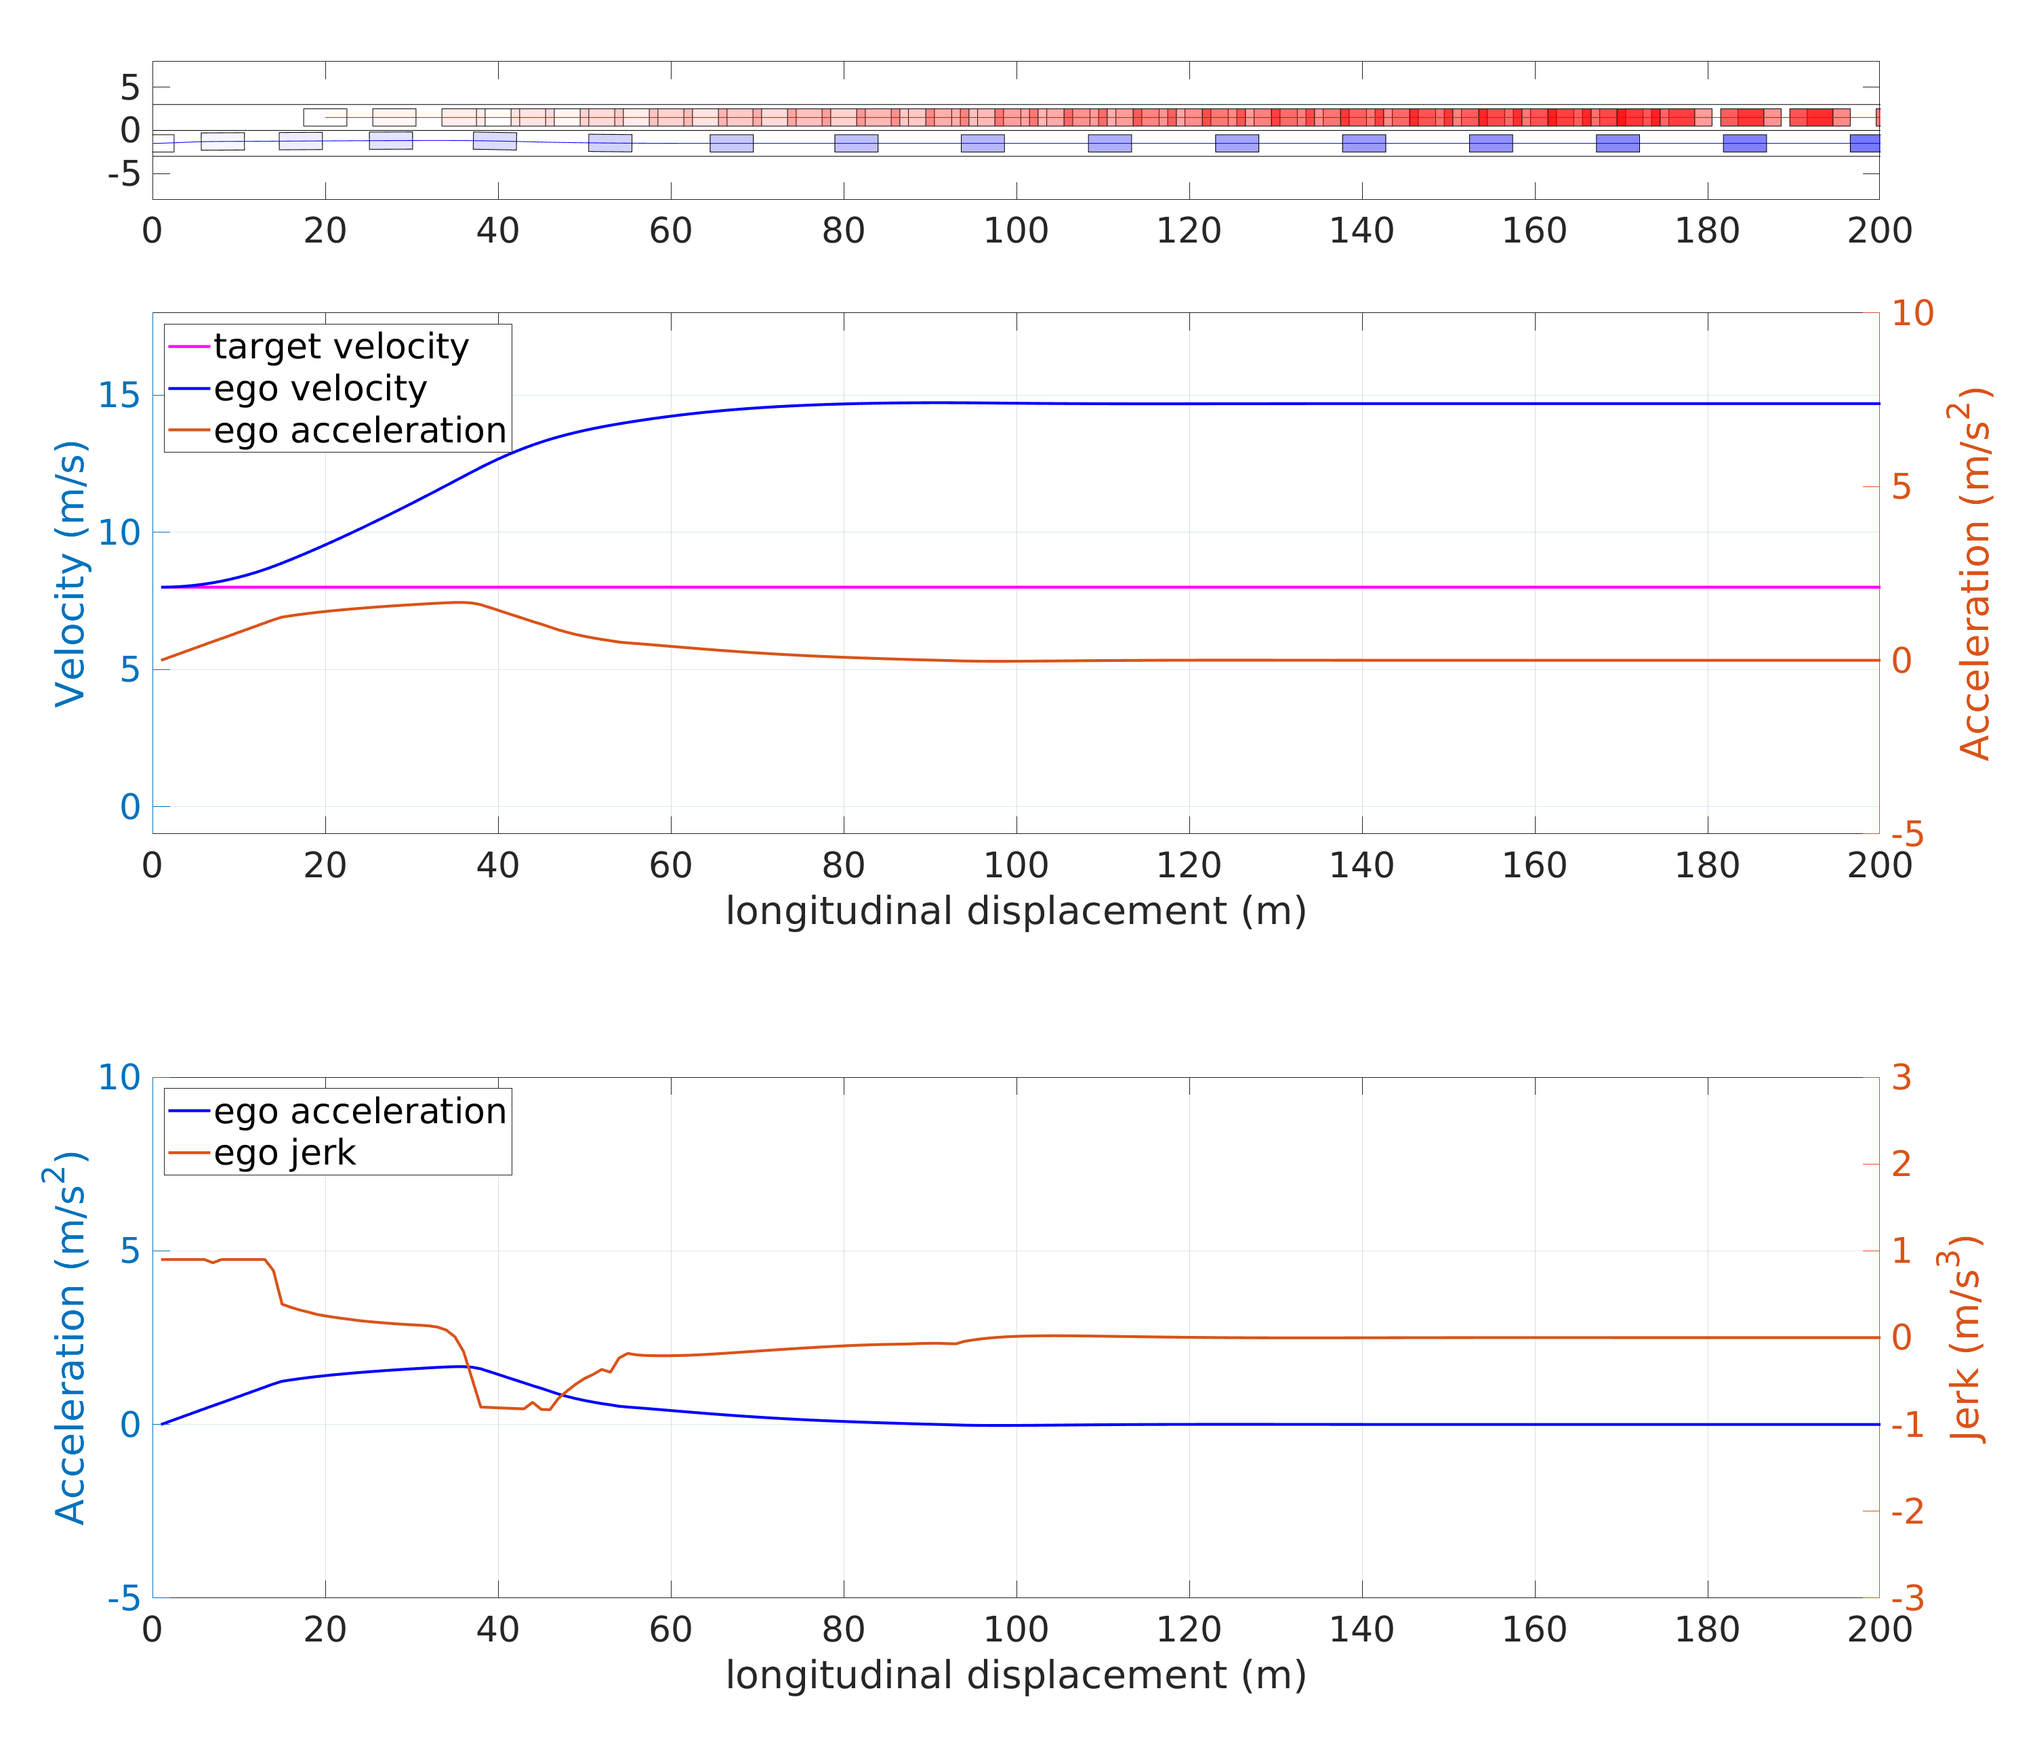
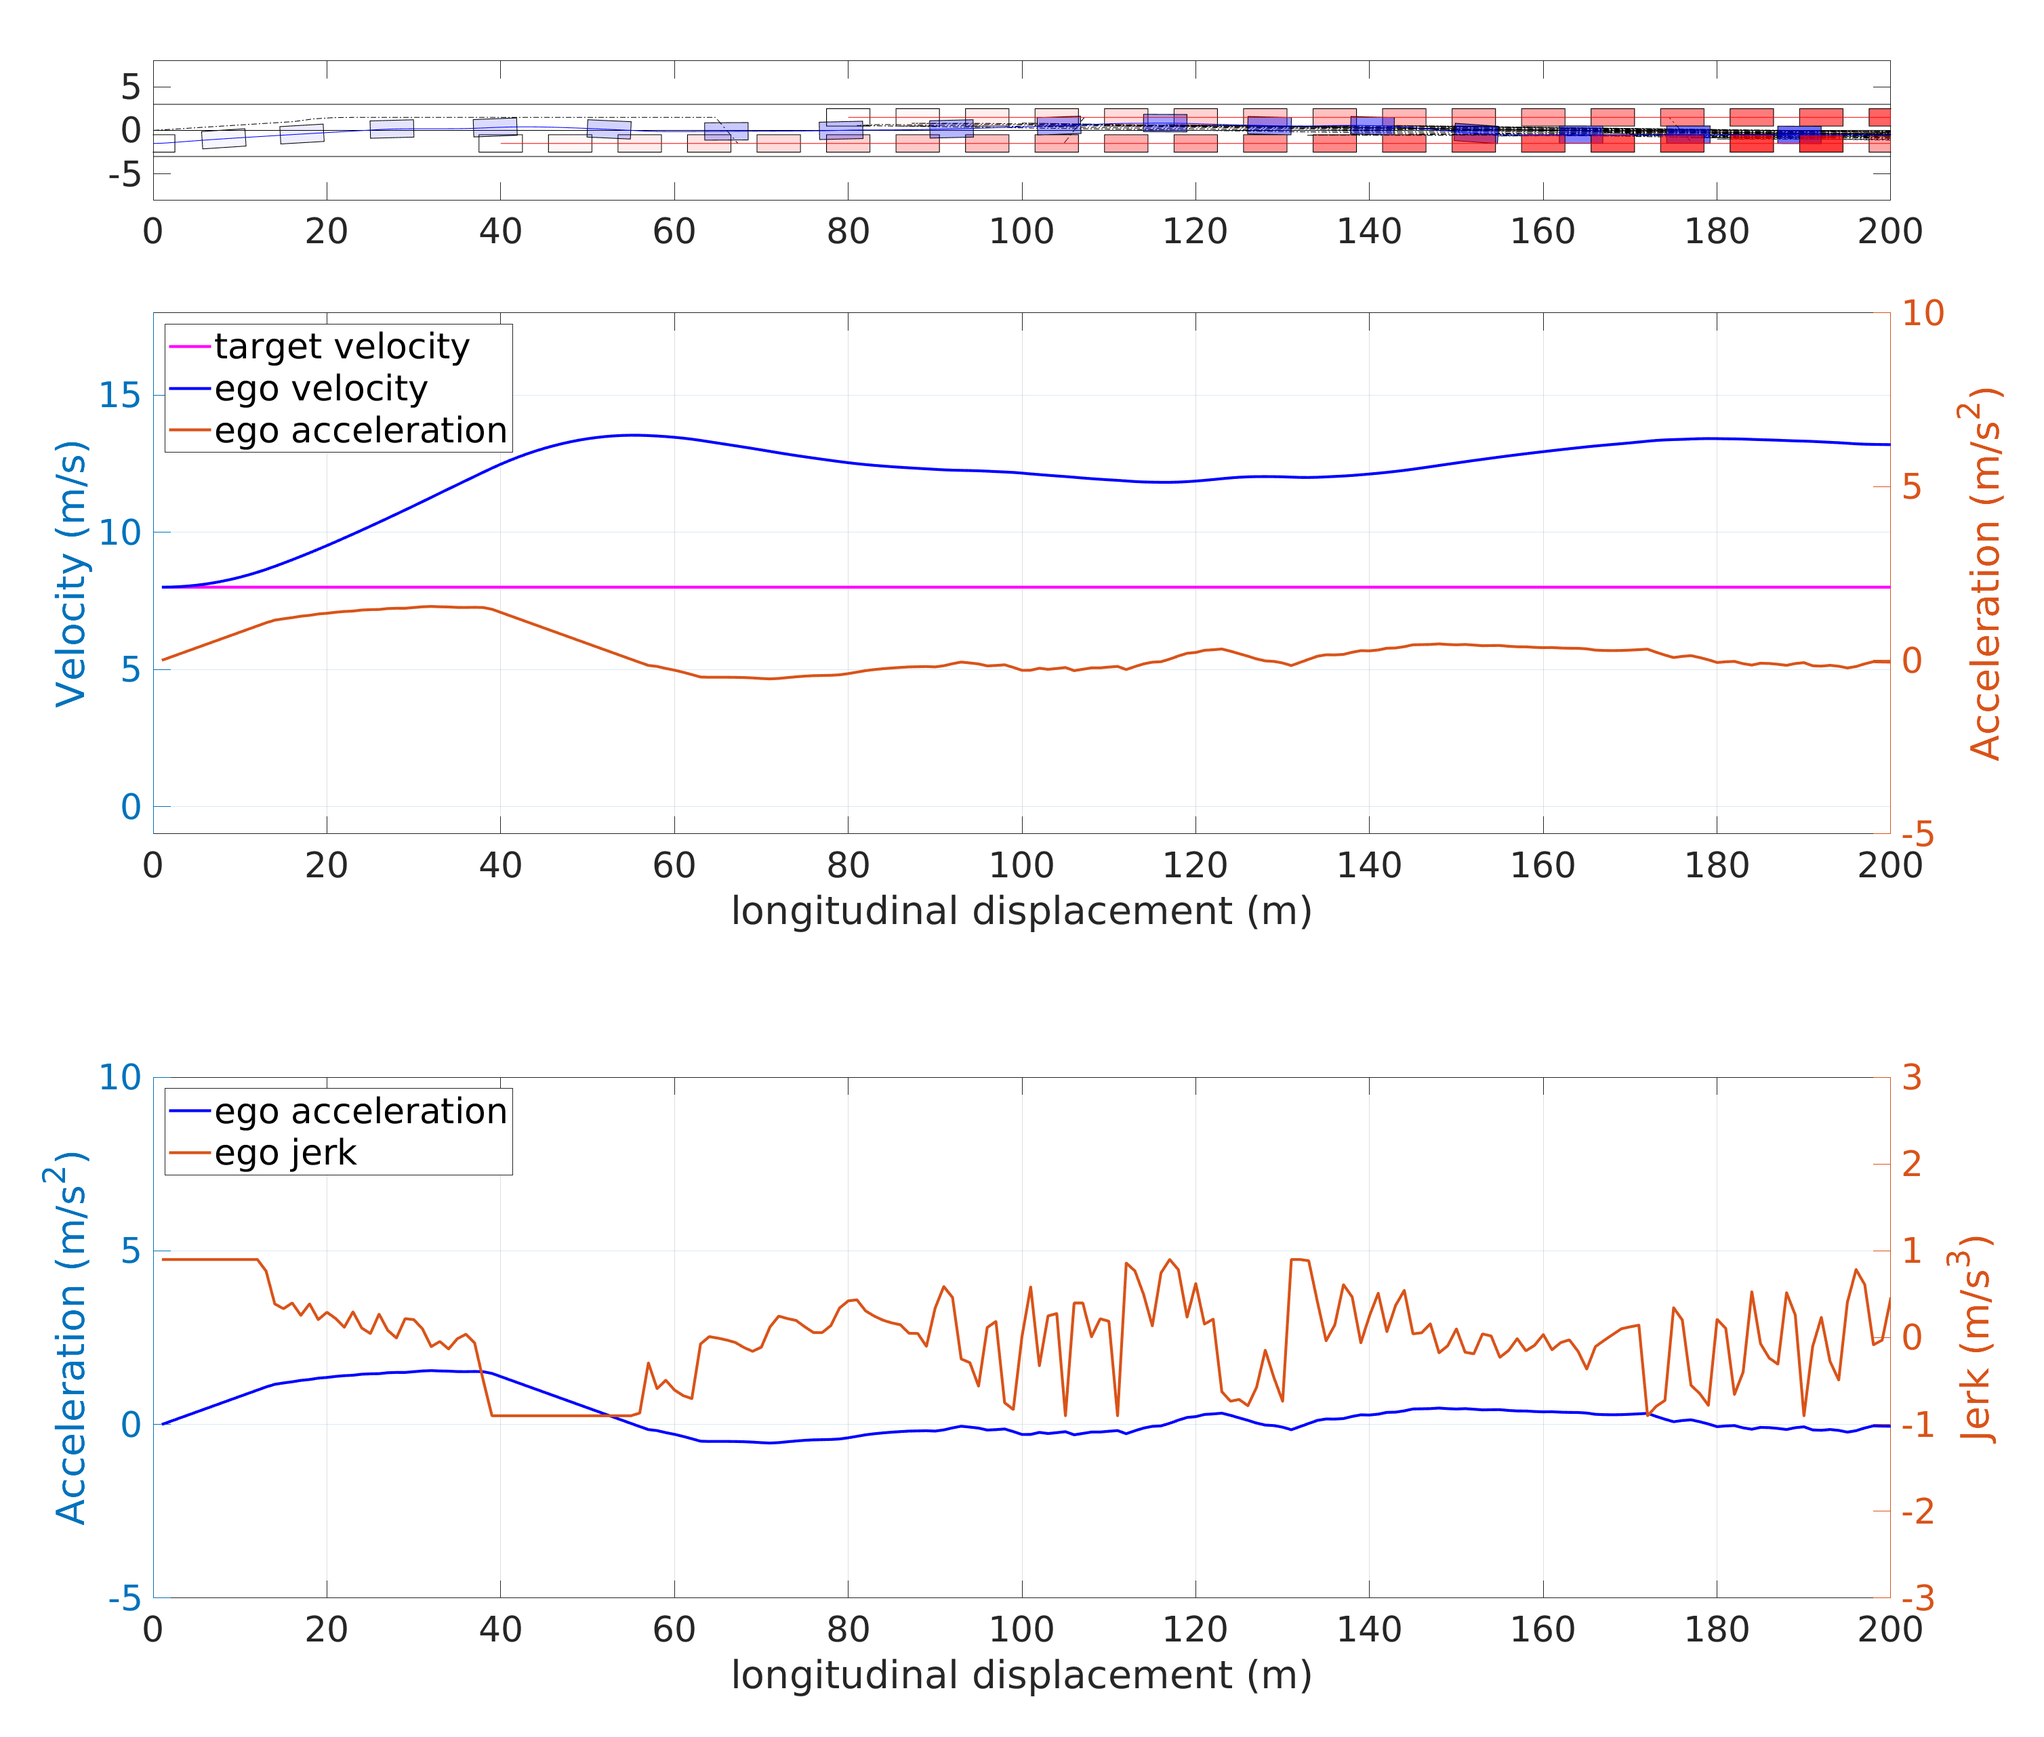
two phase planner updated

diff --git a/iLQR.m b/iLQR.m
@@ -99,11 +99,28 @@ trace(1).dlambda = dlambda;
 vref        = 15;
 vref_road=15;
 aref=0.;
-traj_count=1;
+traj_count=0;
 ego_initial_y=-Lane_size/2.;
 scenario_ref='LaneChange';%'LaneChange';
+%vehicle objects
+egoV=vehicle;
 vehicle_type='Ego';%to make sure global variables of y_final and y_temp_final will update only for case of Ego vehicle 
 Phase=1;
+%specfing th final destintion of go vehicle
+y_init=ego_initial_y;
+        if (y_init == -Lane_size)
+            y_final = Lane_size;
+        elseif (y_init == Lane_size)
+            y_final = -Lane_size;
+        elseif (y_init == Lane_size/2.)
+            y_final = -Lane_size/2.;
+        elseif (y_init == -Lane_size/2.)
+            y_final = Lane_size/2.;
+        elseif (y_init == -3*Lane_size/2.)
+            y_final = 3*Lane_size/2.;
+        elseif (y_init == 3*Lane_size/2.)
+            y_final = 1*Lane_size/2.;
+        end
 tf=1;%seconds needed to do the lane change 
 ref_traj    = reftraj_gen(2*T, dt,ego_initial_y ,20,scenario_ref , aref,vref,tf,20,vehicle_type);%it must be 3 for D1 and -3 for others 
 top_lane    = reftraj_gen(2*T, dt,  road_up_lim,20, 'Linear', aref,vref);
@@ -194,47 +211,61 @@ obs_short   = [];
 obs_long    = [];
 loop_time   = [];
 
+
 % iLQR
 for i = 1:1:NUM_TOTAL
     
     %we have a two phases planner: phase 1 for  for obstacle overtaking until the road is clear then phase 2 for going to the desired destination if we're not on it already 
     % ref generation for obstacle overtaking until the road is clear 
-    if Phase==1
-         if EgoPolicy<0 %then we need to do a lane change 
-        scenario_ref='LaneChange';
-        ref_traj    = reftraj_gen(2*T, dt, X_planned(2,i),20, scenario_ref, aref,vref,tf,X_planned(1,i),vehicle_type);%we need to update the x0 from 20 to current position of ego vehicle
-
-         else
-        scenario_ref='Linear';
-        ref_traj    = reftraj_gen(2*T, dt, X_planned(2,i),20, scenario_ref, aref,vref,tf,X_planned(1,i),vehicle_type);%we need to update the x0 from 20 to current position of ego vehicle
-
-         end
-    elseif Phase==2
-    
-    %y_temp_final y_temp_init;
-    % check if the trajectory has reached to its temperary destinations      
-    if y_temp_final ~= y_final & scenario_ref=='LaneChange' %Omid: here we want to update, we don't want to generate and update linear ref trag  
-        
-       if i>NUM_CTRL/5 & i<NUM_TOTAL-NUM_CTRL/5
-           traj_dy_dist = zeros(NUM_CTRL/5,1);
+    if i>NUM_CTRL/5 & i<NUM_TOTAL-NUM_CTRL/5
+    traj_dy_dist = zeros(NUM_CTRL/5,1);
            sum_traj_dy_dist=0;
             for jj = i-NUM_CTRL/5:1:i-1
                 traj_dy_dist(jj) = abs(X_planned(2,jj) - y_temp_final);
                 sum_traj_dy_dist=sum_traj_dy_dist+traj_dy_dist(jj);
             end
             if sum_traj_dy_dist < 0.7%Omid: here we want to update  
-                traj_count=traj_count+1;
-                ref_traj    = reftraj_gen(2*T, dt, ego_initial_y,20, scenario_ref, aref,vref,tf,X_planned(1,i-1),vehicle_type);%we need to update the x0 from 20 to current position of ego vehicle
-
-            end
-       end
+               
+        if Phase==1
+         if EgoPolicy<0 %then we need to do a lane change 
+        scenario_ref='LaneChange';
+        ref_traj    = reftraj_gen(2*T, dt, X_planned(2,i-1),20, scenario_ref, aref,vref,tf,X_planned(1,i-1),vehicle_type);%we need to update the x0 from 20 to current position of ego vehicle
+        ref_traj_fractions(i-1:2*NUM_TOTAL,:)=ref_traj(1:2*NUM_TOTAL-(i-2),:);
+         else
+        scenario_ref='Linear';
+        ref_traj  = reftraj_gen(2*T, dt, X_planned(2,i-1),20, scenario_ref, aref,vref,tf,X_planned(1,i-1),vehicle_type);%we need to update the x0 from 20 to current position of ego vehicle
+        ref_traj_fractions((i-1):2*NUM_TOTAL,:)=ref_traj(1:2*NUM_TOTAL-(i-2),:);
+         end
+    elseif Phase==2
+    if strcmp(scenario_ref,'Linear')
+    disp('nnnm');
     end
-       if ref_traj(1,4) ~= vref% here we want to update ref traj if reftraj(4)~= updated vref which may be equal to target velocity if we want to do lane keeping once we are in tmpoary destinations 
-             disp(ref_traj(1,4))
-        %vref i constantly updating in DYNCST
-             ref_traj    = reftraj_gen(2*T, dt, ego_initial_y,20, scenario_ref, aref,vref,tf,X_planned(1,i-1),vehicle_type);%we need to update the x0 from 20 to current position of ego vehicle
-       end
+    scenario_ref='LaneChange';
+    %y_temp_final y_temp_init;
+    % check if the trajectory has reached to its temperary destinations      
+    if y_temp_final ~=y_final & strcmp(scenario_ref,'LaneChange') %Omid: here we want to update, we don't want to generate and update linear ref trag  
+        
+           
+                
+                traj_count=traj_count+1;
+                ref_traj   = reftraj_gen(2*T, dt, X_planned(2,i-1),20, scenario_ref, aref,vref,tf,X_planned(1,i-1),vehicle_type);%we need to update the x0 from 20 to current position of ego vehicle
+        ref_traj_fractions(i-1:2*NUM_TOTAL,:)=ref_traj(1:2*NUM_TOTAL-(i-2),:);
+            
+       
+    end
     
+       
+    
+        end
+            end
+%     if ref_traj(1,4) ~= vref% here we want to update ref traj if reftraj(4)~= updated vref which may be equal to target velocity if we want to do lane keeping once we are in tmpoary destinations 
+% %              disp(ref_traj(1,4))
+%         %vref i constantly updating in DYNCST
+%              ref_traj    = reftraj_gen(2*T, dt, X_planned(2,i-1),20, scenario_ref, aref,vref,tf,X_planned(1,i-1),vehicle_type);%we need to update the x0 from 20 to current position of ego vehicle
+%              ref_traj_fractions(i-1:2*NUM_TOTAL,:)=ref_traj(i-1:2*NUM_TOTAL,:);
+%              disp(ref_traj(1,4))
+% 
+%     end
     end
      
     
@@ -469,7 +500,7 @@ if plot_gif == 1
         % draw planned trajectory and the reference trajectory
         plot(X_planned(1,:), X_planned(2,:),'b');
         hold on
-        plot(ref_traj(:,1),ref_traj(:,2),'--g');  
+        plot(ref_traj_fractions(:,1),ref_traj_fractions(:,2),'--g');  
         hold on
 
         % draw obstacle
@@ -571,7 +602,7 @@ it = 200;
 % environment visualizations
 plot(side_lane(:,1),side_lane(:,2)+6,'--r');  
 hold on
-plot(ref_traj(:,1),ref_traj(:,2),'-.k');  
+plot(ref_traj_fractions(:,1),ref_traj_fractions(:,2),'-.k');  
 hold on
 plot(side_lane(:,1),side_lane(:,2),'-.k');  
 hold on

diff --git a/reftraj_gen.m b/reftraj_gen.m
@@ -1,4 +1,4 @@
-function ref = reftraj_gen(T_tot, dt, y_init,x_init, varargin)
+function ref = reftraj_gen(T_tot, dt, vehicleY,x_init, varargin)
 % ref_traj    = reftraj_gen(2*T, dt, -1.5, 'Linear', vref);%it must be 3 for D1 and -3 for others 
 
 % This function is for reference trajectory generation
@@ -51,15 +51,16 @@ vehicle_type=cell2mat(optargs(6));
         v_des     = tgt_vel;
         a_des=tgt_acc;
         interval  = v_des * dt;
-        x_ref     = 0:interval:interval*(NUM_TOTAL);
-        y_ref     = y_init*ones(size(x_ref));
+        x_ref     = 0:interval:interval*(T_tot/dt);
+        y_ref     = vehicleY*ones(size(x_ref));
         a_ref     = a_des * ones(size(x_ref));
         v_ref     = v_des * ones(size(x_ref));
         theta_ref = zeros(size(x_ref));%Omid all tetha qual to zero as it is linear
         ref       = [x_ref' y_ref' a_ref' v_ref' theta_ref'];
         if strcmp(vehicle_type,'Ego')
-        y_final=y_ref(1);
-         y_temp_final = y_final;
+%          egoV.y_final=y_ref(1);
+%           y_temp_final = egoV.y_final;
+         y_temp_final = y_ref(1);
          end
     % Lane Changing trajectory
     elseif strcmp(type,'LaneChange')
@@ -70,33 +71,24 @@ vehicle_type=cell2mat(optargs(6));
         % corresponds to x0 dx0 ddx0 xf dxf ddxf
         qx      = [x0, v_des, 0, x0+v_des*tf, v_des, 0];
         % corresponds to y0 dy0 ddy0 yf dyf ddyf
-        
+
     if Phase==1
-         y_temp_init=CenterLaneY_detector(y_init);
+         y_temp_init=CenterLaneY_detector(vehicleY);
          y_temp_final=y_temp_init+Lane_size;% by default we go to th upper lane for overtaking
          if y_temp_final>road_up_lim% if we passd the road upper boundary we go one lane down, as simple as that, we never need to be worried about passing the lower road boundary 
             y_temp_final=y_temp_init-Lane_size;
          end
     elseif Phase==2
-        if (y_init == -Lane_size)
-            y_final = Lane_size;
-        elseif (y_init == Lane_size)
-            y_final = -Lane_size;
-        elseif (y_init == Lane_size/2.)%below is added by Omid
-            y_final = -Lane_size/2.;
-        elseif (y_init == -Lane_size/2.)
-            y_final = Lane_size/2.;
-        elseif (y_init == -3*Lane_size/2.)
-            y_final = 3*Lane_size/2.;%Omid: it should be -Lane_size/2. for one lane changing
-        elseif (y_init == 3*Lane_size/2.)
-            y_final = 1*Lane_size/2.;%Omid: it should be -Lane_size/2. for one lane changing
-        end
-        steps=(y_final-y_init)/Lane_size;
-
-        if (traj_count<=abs(steps))
+        y_temp_init=CenterLaneY_detector(vehicleY);
+        steps=(y_final-y_temp_init)/Lane_size;
+% steps=(y_final-y_init)/Lane_size;
+%         if (traj_count<=abs(steps))
+        if (abs(steps)>0)
             sign=(steps/abs(steps));
-            y_temp_init=y_init+(traj_count-1)*sign*Lane_size;
-            y_temp_final=y_init+(traj_count)*sign*Lane_size;
+%             y_temp_init=y_temp_init+sign*Lane_size;
+            y_temp_final=y_temp_init+sign*Lane_size;
+%             y_temp_init=y_init+(traj_count-1)*sign*Lane_size;
+%             y_temp_final=y_init+(traj_count)*sign*Lane_size;
         end
     end
         

diff --git a/scenario_generation.m b/scenario_generation.m
@@ -461,13 +461,13 @@ function [obs, cut_in_traj] = scenario_generation(Case_Code)
        end
        elseif strcmp(Case_Code,'Od5')%for two lane change tests
         % obstacle1
-        o1_init = [20;Lane_size/2.; 0; 8; 0];
+        o1_init = [40;-Lane_size/2.; 0; 8; 0];
         o1_vert = inflate(o1_init);
         o1      = obstacle(o1_init(1:2), o1_vert,o1_init(3), o1_init(4), o1_init(5), NUM_CTRL, dt, t_switch);
         o1      = o1.update_traj(false);
         
         % obstacle2 
-        o2_init = [40; Lane_size/2.; 0; 8; 0];
+        o2_init = [80; Lane_size/2.; 0; 8; 0];
         o2_vert = inflate(o2_init);
         o2      = obstacle(o2_init(1:2), o2_vert, o2_init(3), o2_init(4), o2_init(5), NUM_CTRL, dt, t_switch);
         o2      = o2.update_traj(false);
@@ -475,13 +475,13 @@ function [obs, cut_in_traj] = scenario_generation(Case_Code)
         % obstacle3 
         
         
-        o3_init = [90;Lane_size/2.; 0; 8;0];
+        o3_init = [120;-Lane_size/2.; 0; 8;0];
         o3_vert = inflate(o3_init);
         o3      = obstacle(o3_init(1:2), o3_vert, o3_init(3), o3_init(4), o3_init(5), NUM_CTRL, dt, t_switch);
         o3      = o3.update_traj(false);
         
         % obstacle4 
-        o4_init = [-60;Lane_size/2.;  0; 13; 0];
+        o4_init = [160;Lane_size/2.;  0; 8; 0];
         o4_vert = inflate(o4_init);
         o4      = obstacle(o4_init(1:2), o4_vert, o4_init(3), o4_init(4), o4_init(5), NUM_CTRL, dt, t_switch);
         o4      = o4.update_traj(false);
@@ -498,14 +498,14 @@ function [obs, cut_in_traj] = scenario_generation(Case_Code)
         o6      = obstacle(o6_init(1:2), o6_vert, o6_init(3), o6_init(4), o6_init(5), NUM_CTRL, dt, t_switch);
         o6      = o6.update_traj(false);
         
-        obs = [o1,o2,o3];
+        obs = [o1,o2,o3,o4];
         
         % build a full target trajectory
 %         for mm=1:size(obs)
         cut_in_traj(:,:,1) = o1_init * ones(1, (T+T_horizon)/dt);
         cut_in_traj(:,:,2) = o2_init * ones(1, (T+T_horizon)/dt);
           cut_in_traj(:,:,3) = o3_init * ones(1, (T+T_horizon)/dt);
-%           cut_in_traj(:,:,4) = o4_init * ones(1, (T+T_horizon)/dt);
+           cut_in_traj(:,:,4) = o4_init * ones(1, (T+T_horizon)/dt);
 %         cut_in_traj(:,:,5) = o5_init * ones(1, (T+T_horizon)/dt);
 %         cut_in_traj(:,:,6) = o6_init * ones(1, (T+T_horizon)/dt);
         

diff --git a/DYNCST.m b/DYNCST.m
@@ -197,6 +197,7 @@ for i = 1:1:NUM_CTRL
 
          if index==-1
           Phase=2;
+%           disp(Phase);
          dx_1=Imag_targetCar_dis;
          dx_2=abs(Xi(2)-Xi(2));
          vref=floor(vref_road+abs((vref_road+0.1-vref_road)*tanh(0.05*dx_1+0.2*dx_2)));
@@ -204,6 +205,7 @@ for i = 1:1:NUM_CTRL
          C=dx_1+vref_road-vref-10*param.len;
          else
              Phase=1;
+%              disp(Phase);
              dx_1=obstacle(index).traj(1,i)-Xi(1);%dx_1=deltax(1) tp remove the influnce of back cars on ego vehicle speed we don't use abs distance value here 
              dx_2=abs(Xi(2)-obstacle(index).traj(2,i));%dx_2=deltax(2)
 
@@ -225,7 +227,8 @@ for i = 1:1:NUM_CTRL
 %             vref=vref_road;
 %         end
         y_temp=y_temp_final;
-        dy_f=abs(y_final-Xi(2));%deltay_final
+        dy_f=abs(y_temp_final-Xi(2));%deltay_final
+%         dy_f=abs(y_final-Xi(2));%deltay_final
         dy_t=abs(y_temp-Xi(2));%dy_t=deltay_temp is at max equal to the distance between the curent ego vehicle center lane with the other lane center if we want to go there as a step to reach th y_final
         
         

diff --git a/vehicle.m b/vehicle.m
@@ -1,0 +1,6 @@
+classdef vehicle
+   properties
+      y_final
+
+   end
+end
